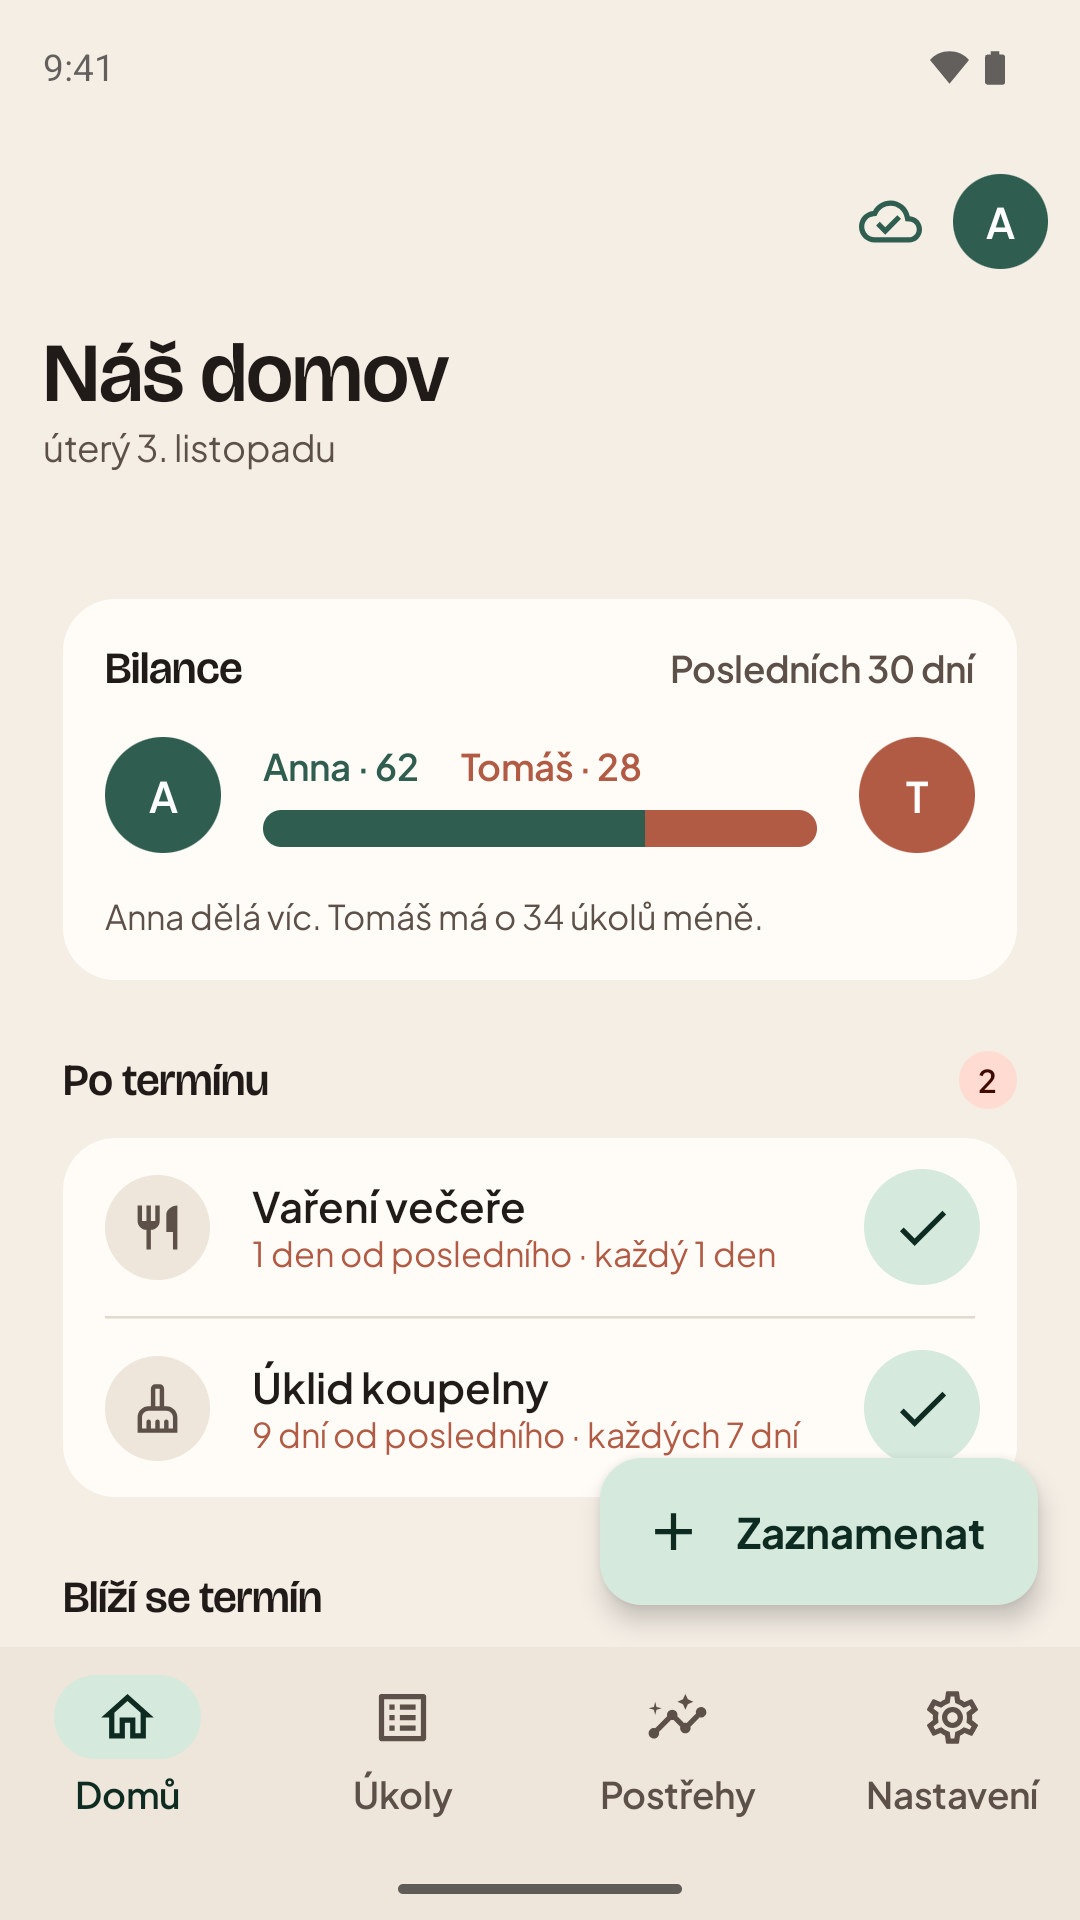
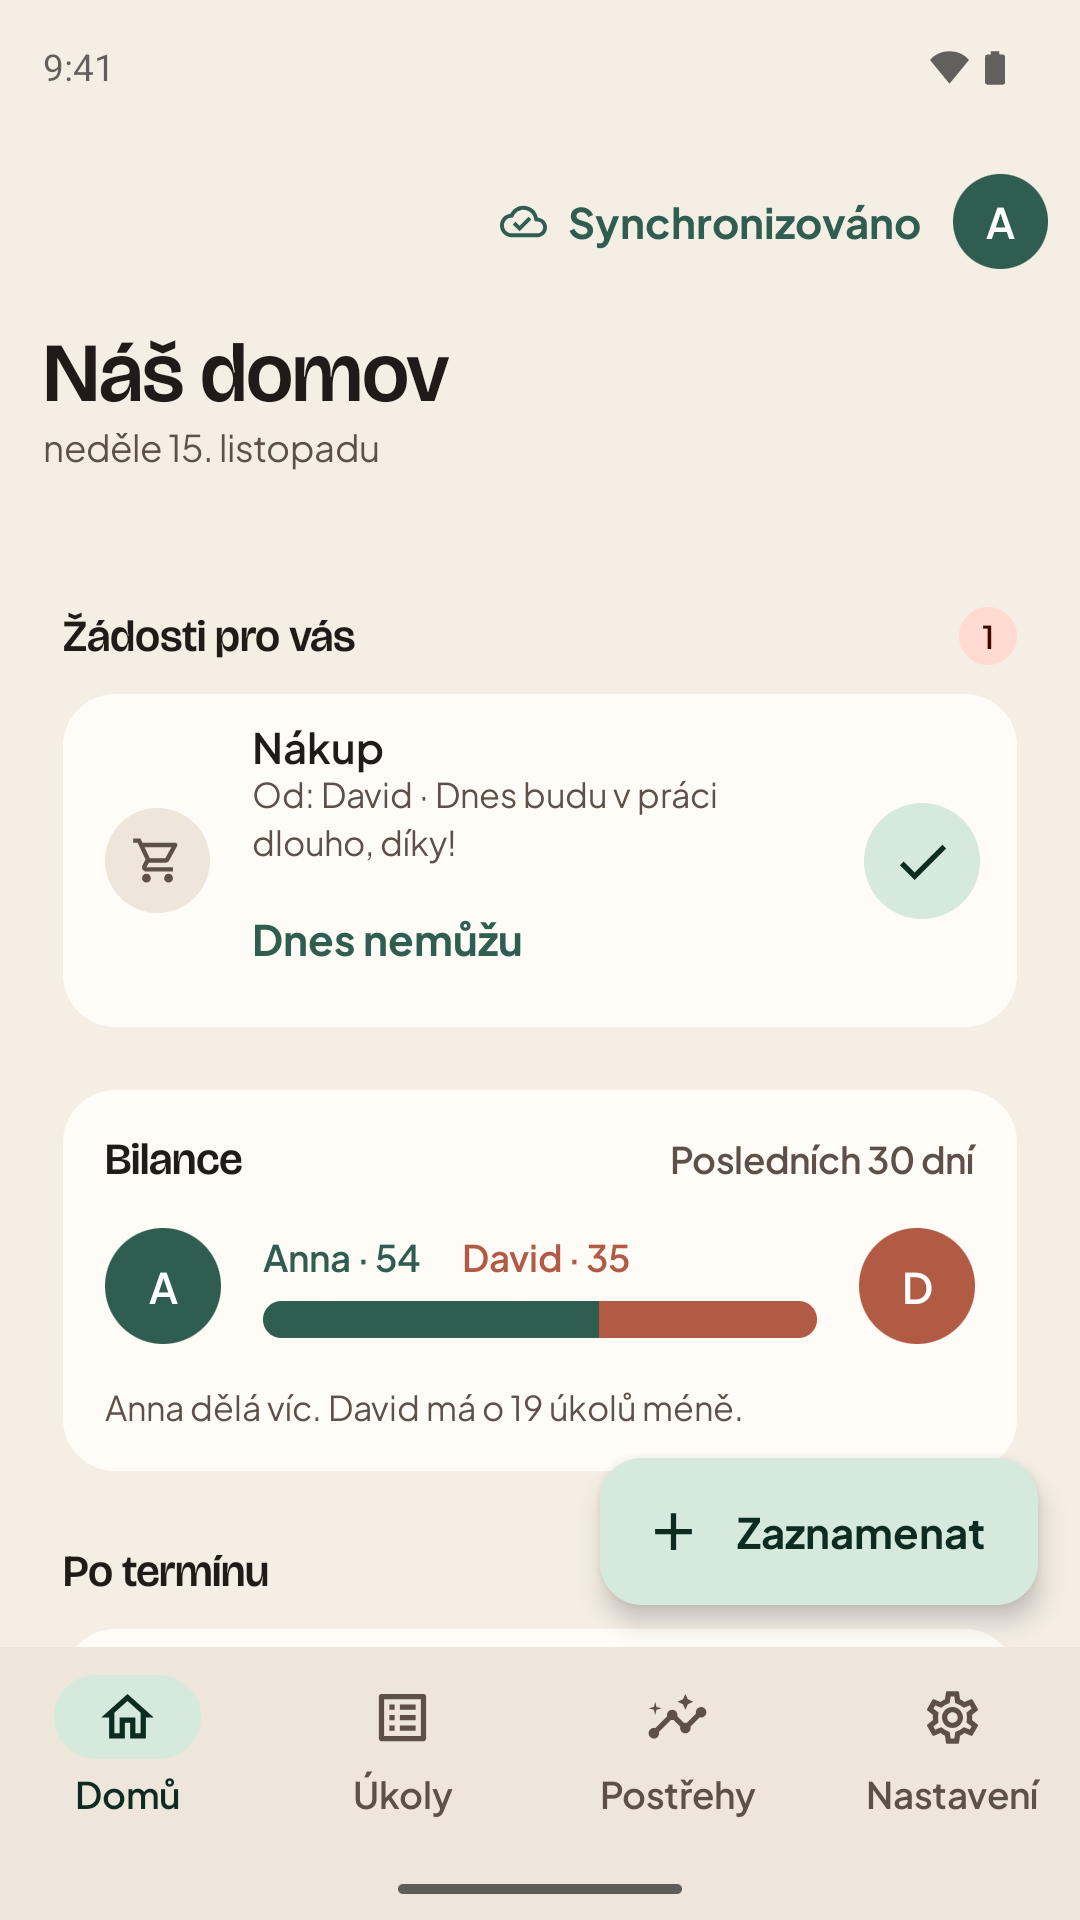
Chore: Update Play listing for 0.3.0 (#173)
- Short and full descriptions (EN/CS) cover taking turns, asking a member for help, admins and per-chore reminders.
- Eight phone screenshots per language, with Anna and David as the household.
- docs/play-store/screenshots/seed.mjs seeds the local emulators for retakes.

diff --git a/.claude/skills/release-readiness/SKILL.md b/.claude/skills/release-readiness/SKILL.md
@@ -21,7 +21,7 @@ Items needed before (and for) Google Play publication. Some are useful well befo
 1. ~~**Localization (i18n)**~~ — Done. All user-facing strings live in `core/design`'s `values/strings.xml` (257 keys) with a full `values-cs/` (Czech) translation kept at 1:1 parity — verified after every string change throughout the redesign, and lint-enforced (`ci_gotchas` memory: Czech i18n is ERROR severity, not warning). Error messages were the exception until `bugfix/localize_error_messages`: `AppResult.Error` now carries a typed `AppError` (`core/model`), Firebase exceptions are classified by `Throwable.toAppError()` (`core/remote-firebase`), and the UI resolves text via `AppError.toStringRes()` (`core/design`) — no hardcoded or raw Firebase English reaches the UI. Notification channels, the invite-accepted push (FCM `titleLocKey`/`bodyLocKey` resolved against `core/notifications`' own resources), the "System default" language label and the preview-mode default name followed in `bugfix/localize_remaining_strings`. Still English by design or out of reach: data-layer defaults with no resource access (`"My Household"` fallback, preview household `"Sunny Flat"`, the stats placeholder `"Household"`).
 2. ~~**Privacy policy**~~ — Done (`site/`, published by `.github/workflows/pages.yml`): https://cerveda2.github.io/ChoreTracker/privacy/ and the account-deletion page https://cerveda2.github.io/ChoreTracker/delete-account/ that Play's Data safety form asks for. Keep both in sync when data collection or deletion behavior changes. Terms aren't written; Play doesn't require them.
 3. ~~**App icon + adaptive icon**~~ — Done. The redesign's house-and-check adaptive icon (`ic_launcher_foreground`/`_background`, plus a monochrome layer for themed icons); debug builds get the amber DEV variant. The 512 px Play icon is rendered from the same shape.
-4. ~~**Google Play Store listing assets**~~ — Done (#129, #132). EN/CS title, short and full descriptions, the 512 px icon, feature graphics and six phone screenshots per language live in `app/src/main/play/` (Gradle Play Publisher layout); the Data safety and App content answers are in `docs/play-store/app-content.md`. Screenshots come from the debug build against local Firebase emulators seeded with fictional households (1080×1920, demo-mode status bar). No tablet screenshots until tablet layouts exist (Phase 4 item 6).
+4. ~~**Google Play Store listing assets**~~ — Done (#129, #132; updated for 0.3.0). EN/CS title, short and full descriptions, the 512 px icon, feature graphics and eight phone screenshots per language live in `app/src/main/play/` (Gradle Play Publisher layout); the Data safety and App content answers are in `docs/play-store/app-content.md`. Screenshots come from the debug build against local Firebase emulators seeded by `docs/play-store/screenshots/seed.mjs` (households with Anna and David; 1080×1920, demo-mode status bar). The listing isn't uploaded by CI, so update it in Play Console by hand when these files change. No tablet screenshots until tablet layouts exist (Phase 4 item 6).
 5. ~~**`google-services.json` configuration**~~ — Client JSON files are gitignored at `app/src/debug/google-services.json` and `app/src/release/google-services.json`. Android checks provision them from repository secrets or synthetic demo clients for untrusted PRs; signed releases require the production secret. The provisioning script checks the project/package and preserves existing local files. See `docs/FIREBASE_SETUP.md` for migration and setup. Firebase client identifiers remain public in the APK.
 
 ### Phase 3 — CI/CD & Release Automation
